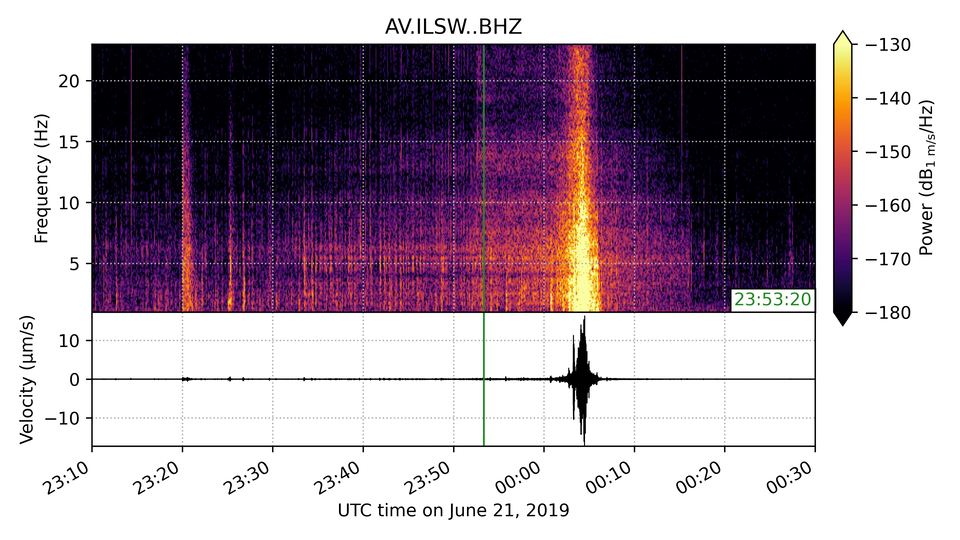
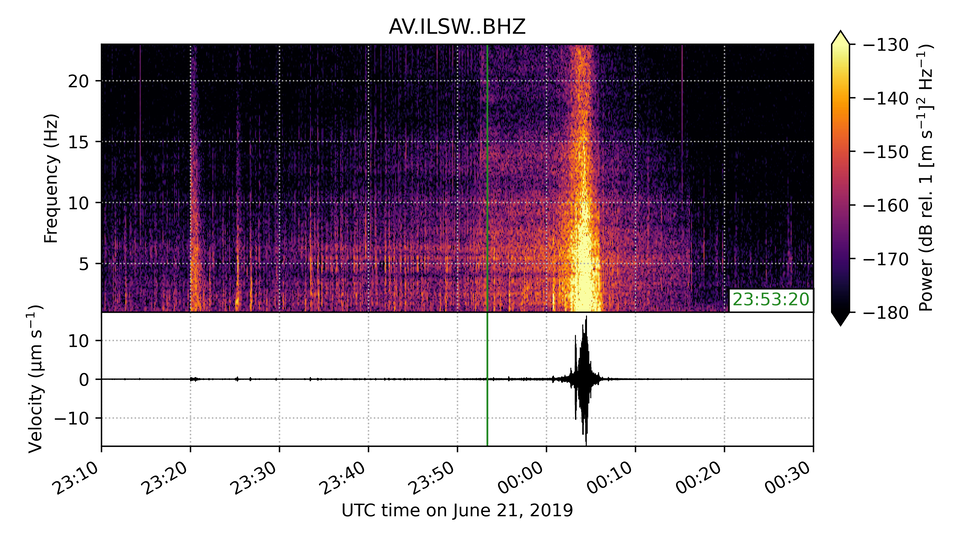
Use proper dB units

diff --git a/sonify/sonify.py b/sonify/sonify.py
@@ -227,15 +227,18 @@ def _spectrogram(
     """
 
     if is_infrasound:
-        ref_val = REFERENCE_PRESSURE
         ylab = 'Pressure (Pa)'
-        clab = 'Power (dB$_{%g\ \mathrm{μPa}}$/Hz)' % (REFERENCE_PRESSURE * 1e6)
+        clab = f'Power (dB rel. [{REFERENCE_PRESSURE * 1e6:g} μPa]$^2$ Hz$^{{-1}}$)'
         rescale = 1
+        ref_val = REFERENCE_PRESSURE
     else:
-        ref_val = REFERENCE_VELOCITY
-        ylab = 'Velocity (μm/s)'
-        clab = 'Power (dB$_{%g\ \mathrm{m/s}}$/Hz)' % REFERENCE_VELOCITY
+        ylab = 'Velocity (μm s$^{-1}$)'
+        if REFERENCE_VELOCITY == 1:
+            clab = f'Power (dB rel. {REFERENCE_VELOCITY:g} [m s$^{{-1}}$]$^2$ Hz$^{{-1}}$)'
+        else:
+            clab = f'Power (dB rel. [{REFERENCE_VELOCITY:g} m s$^{{-1}}$]$^2$ Hz$^{{-1}}$)'
         rescale = 1e6  # Converting to μm/s
+        ref_val = REFERENCE_VELOCITY
 
     fs = tr.stats.sampling_rate
     nperseg = int(win_dur * fs)  # Samples
@@ -245,7 +248,7 @@ def _spectrogram(
         tr.data, fs, window='hann', nperseg=nperseg, nfft=nfft
     )
 
-    sxx_db = 20 * np.log10(np.sqrt(sxx) / ref_val)  # [dB / Hz]
+    sxx_db = 10 * np.log10(sxx / (ref_val ** 2))  # [dB rel. (ref_val <ref_val_unit>)^2 Hz^-1]
 
     t_mpl = tr.stats.starttime.matplotlib_date + (t / mdates.SEC_PER_DAY)
 
